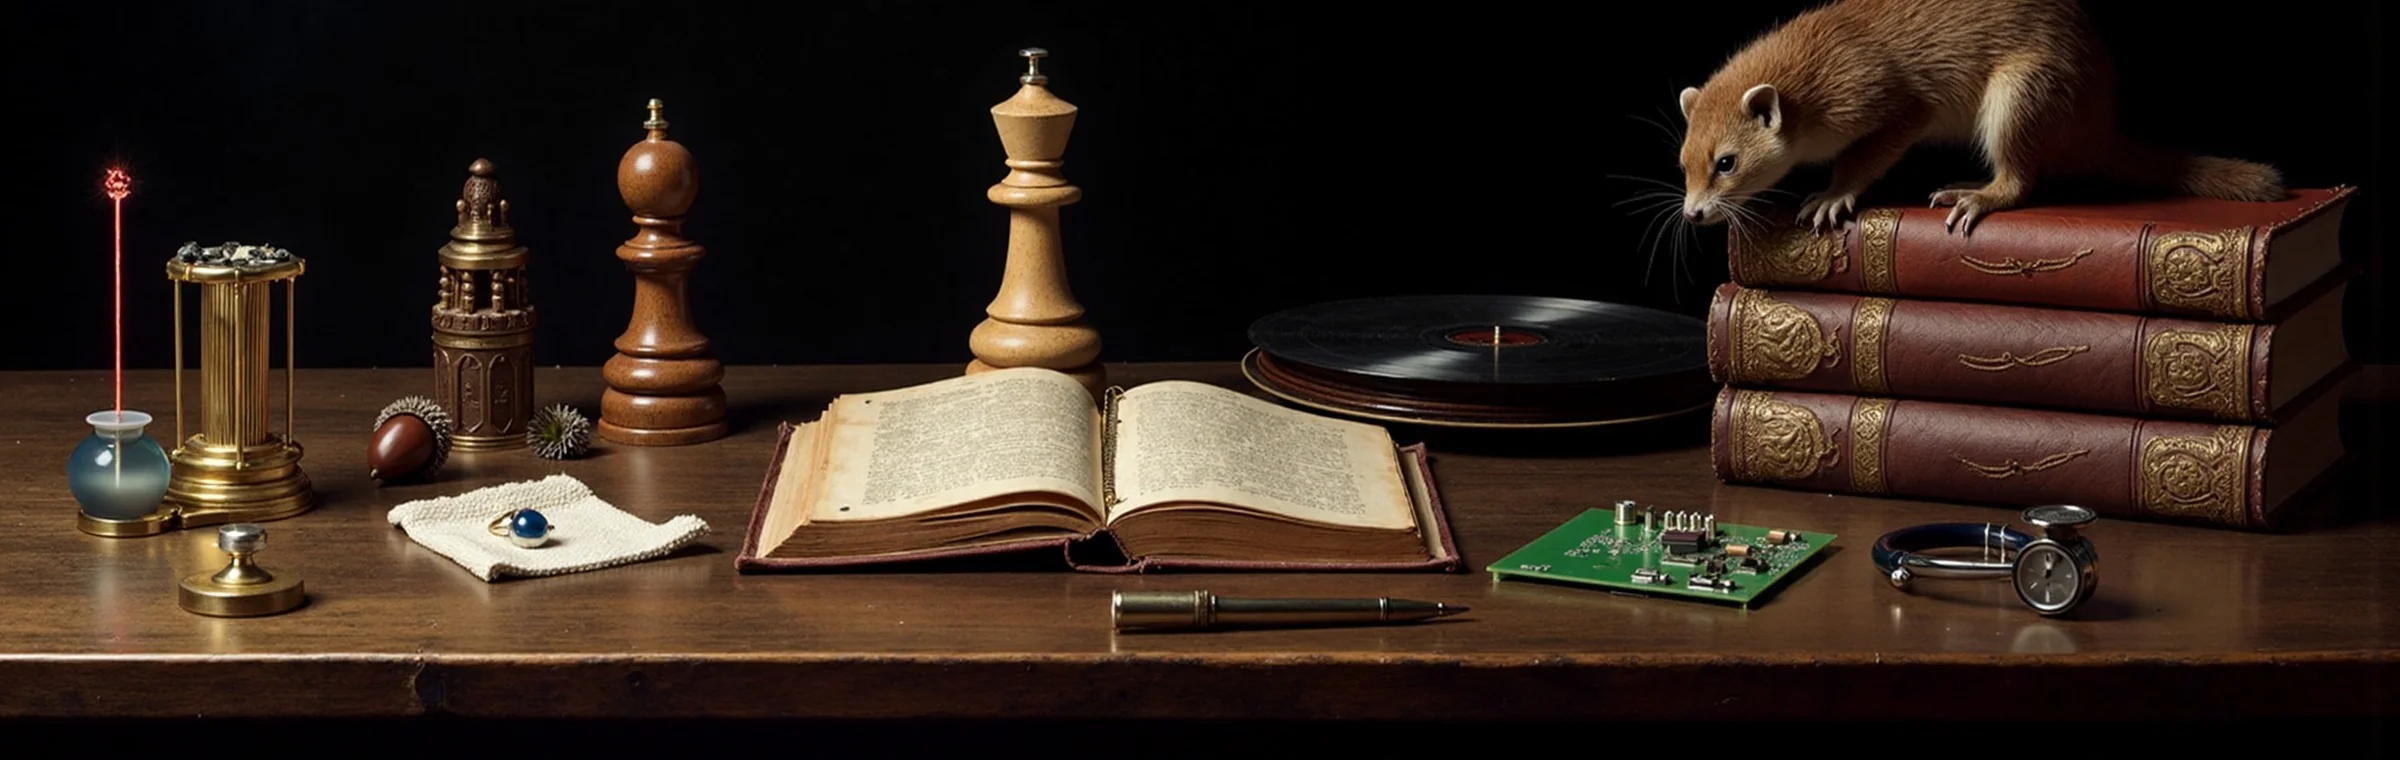
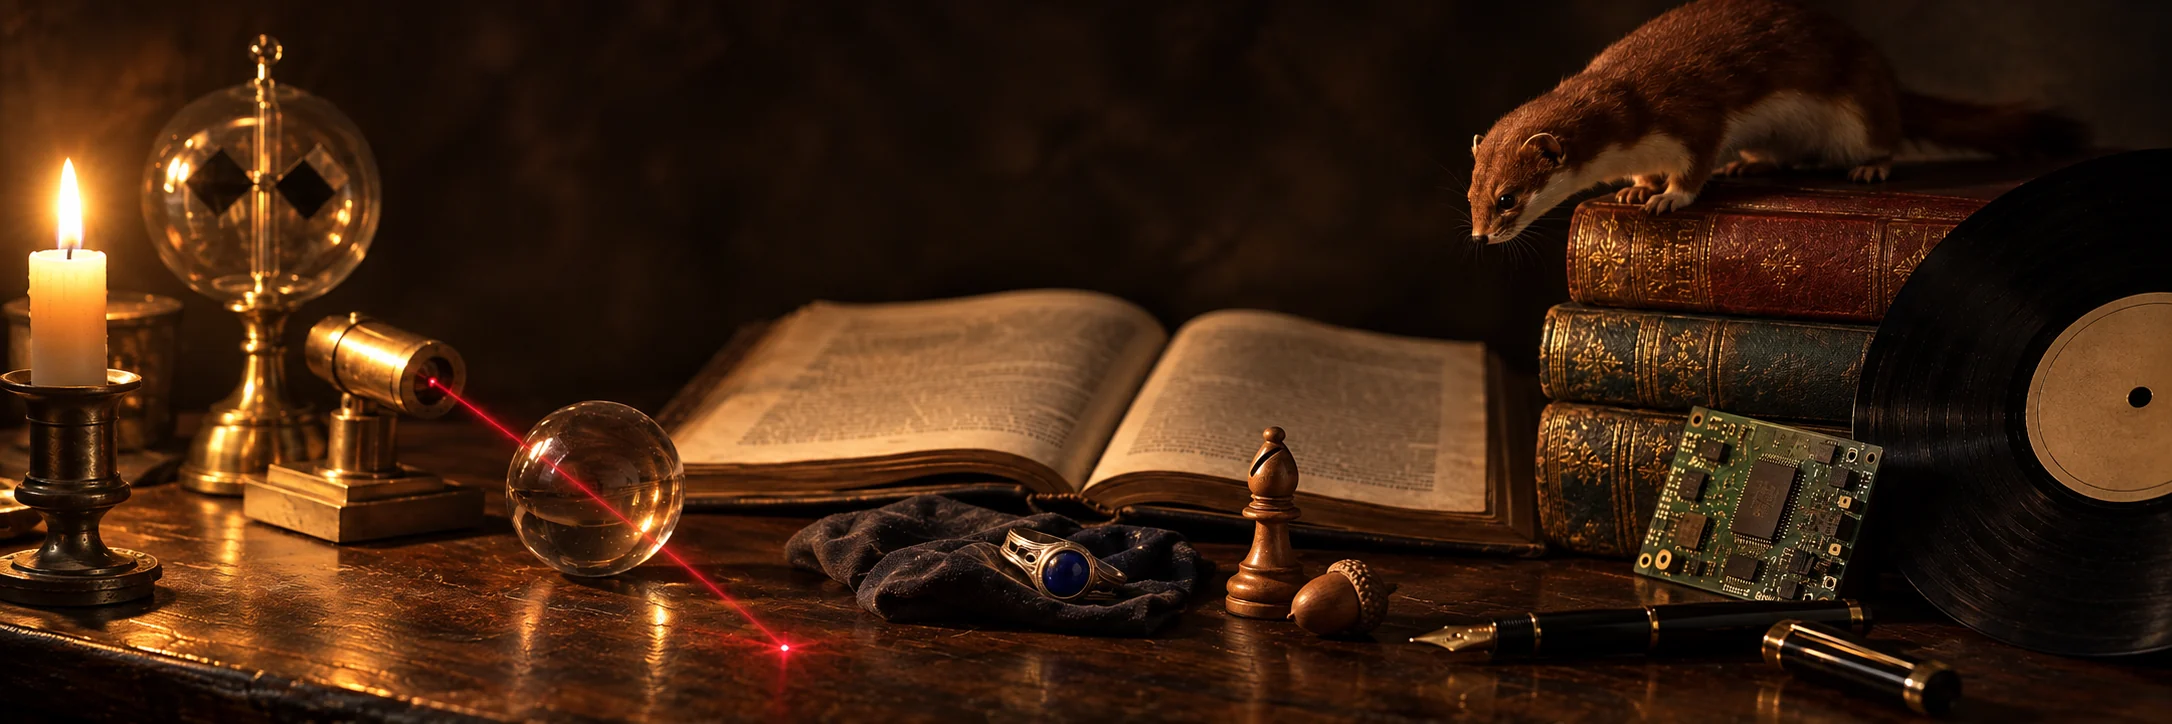
Header: the candlelit weasel still life from the Desktop replaces the rendered band

diff --git a/_includes/header.html b/_includes/header.html
@@ -20,7 +20,7 @@
 
   {%- if page.url == "/" %}
   <div class="wrapper site-banner">
-    <img src="{{ '/assets/images/header.webp' | relative_url }}" width="2400" height="760" alt="A still life of my interests on a dark table: a laser through a glass vessel, a ring with a blue stone, chess pieces, an open book, an acorn, a circuit board, a vinyl record, a stethoscope, and a weasel on a stack of books">
+    <img src="{{ '/assets/images/header.webp' | relative_url }}" width="2172" height="724" alt="A candlelit still life on a dark wooden table: a candle, a radiometer, a brass laser sending a red beam through a glass sphere, an open book, a silver ring with a blue stone on a cloth, a chess bishop, an acorn, a fountain pen, a circuit board, a vinyl record, and a weasel on a stack of old books">
   </div>
   {%- endif %}
 </header>
